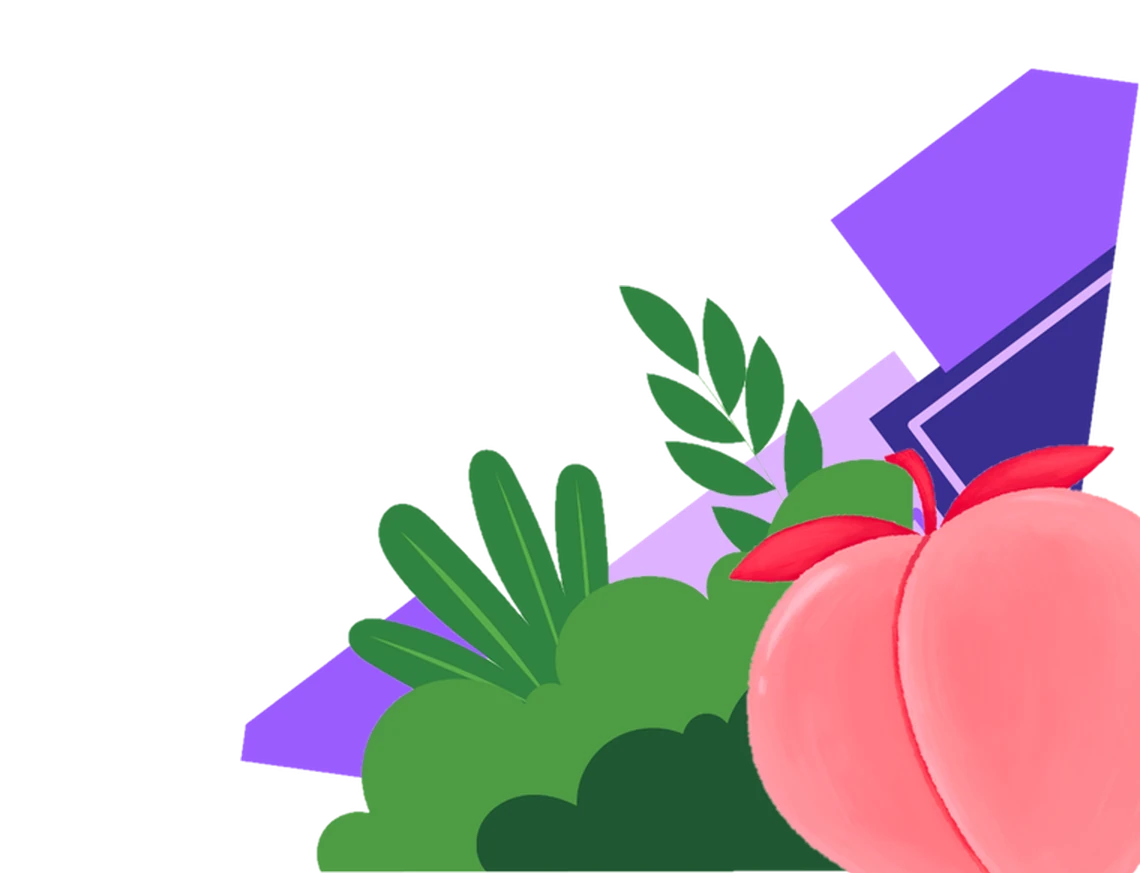
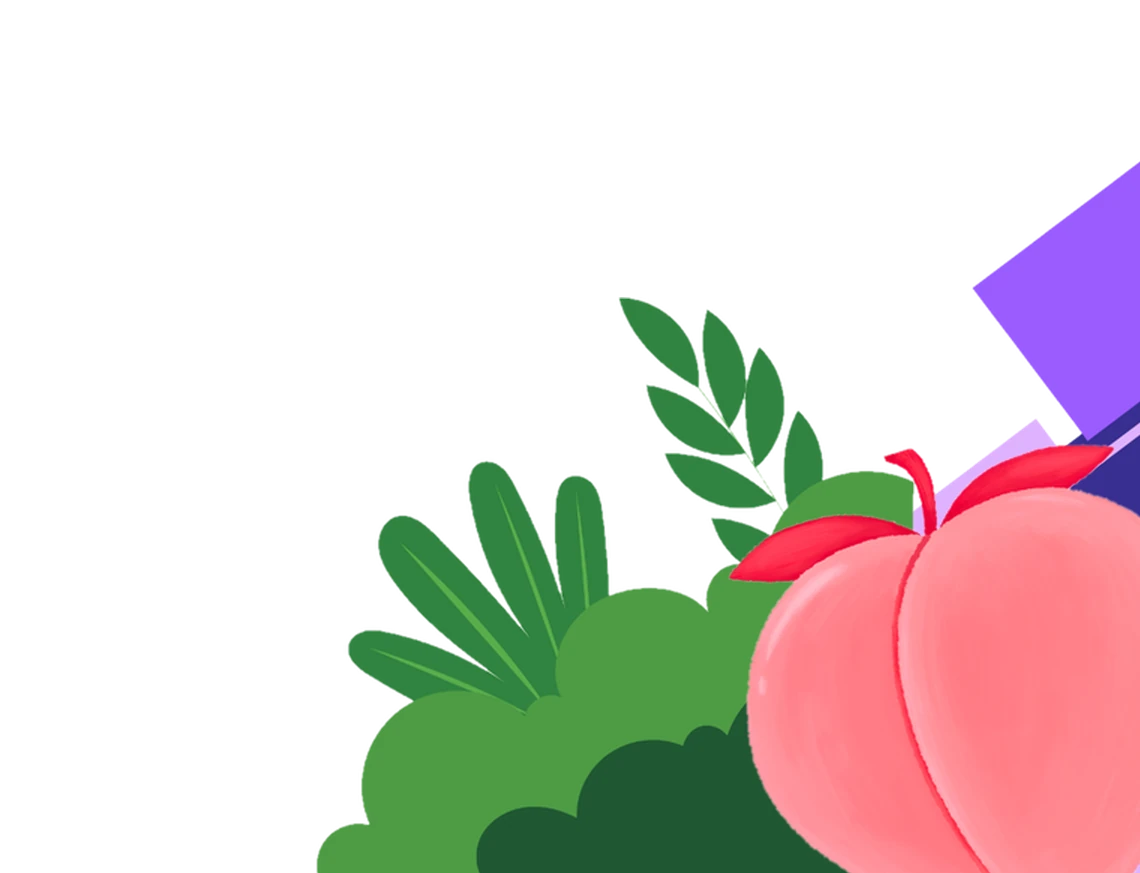
v128

diff --git a/anuario.css b/anuario.css
@@ -408,7 +408,7 @@ body:not(.anuario-mode) #anuarioBg2{display:none;}
 .cv-main{display:contents;}
 .cv25{display:none;}
 #anuScene{position:fixed;inset:0;z-index:-1;pointer-events:none;overflow:hidden;background:var(--paper,#f0dcda);opacity:0;visibility:hidden;transition:opacity .6s ease,visibility 0s .6s;--bn:12px;}
-.sc-in{position:absolute;left:0;right:0;top:var(--hh,64px);bottom:var(--bn);
+.sc-in{position:absolute;left:0;right:0;top:var(--hh,64px);bottom:0;
   --k:1; --s:min(calc(100vw / 1456 * var(--k)),calc((100vh - var(--hh,64px) - var(--bn)) / 819));}
 @supports (height:100dvh){.sc-in{--s:min(calc(100vw / 1456 * var(--k)),calc((100dvh - var(--hh,64px) - var(--bn)) / 819));}}
 @media (orientation:portrait){.sc-in{--k:1.3;}}

diff --git a/anuario.js b/anuario.js
@@ -519,7 +519,7 @@ function anuMes_(t){
 function anuCapas_(t,w){
   const c=t&&t.capas, box=$a("cv25"), sc=$a("anuScene"); if(!box) return;
   w.classList.toggle("c25",!!c);
-  if(!c){ box.innerHTML=""; if(sc) sc.classList.remove("on"); return; }
+  if(!c){ box.innerHTML=""; delete box.dataset.k; if(sc) sc.classList.remove("on"); return; }
   const B=t._b+(c.carpeta||"capas/"), M=c.piezas||{}, E=c.esquinas||{};
   if(!box.dataset.k||box.dataset.k!==B){ box.dataset.k=B;
     box.innerHTML=(c.orden||[]).map((n,i)=>{ const m=M[n]; if(!m) return ""; return `<img class="l25 l-${n}" src="${B}${n}.webp" alt="" draggable="false" style="--l:${m.l}%;--t:${m.t}%;--w:${m.w}%;--d:${(i*0.11).toFixed(2)}s">`; }).join(""); }

diff --git a/sw.js b/sw.js
@@ -4,7 +4,7 @@
  * - Las llamadas al servidor (Apps Script, Google login, GitHub API) NUNCA pasan por acá: los datos
  *   se guardan desde index.html (localStorage + IndexedDB), no desde el service worker.
  * Para forzar que todos reciban una versión nueva, sube el número de VERSION. */
-const VERSION = "v2.119"; // súbelo en CADA despliegue: es lo que dispara la ventana de «Actualizar ahora»
+const VERSION = "v2.120"; // súbelo en CADA despliegue: es lo que dispara la ventana de «Actualizar ahora»
 const SHELL_CACHE = "tph-shell-" + VERSION;
 const ASSET_CACHE = "tph-assets-v1";      // no se borra al cambiar VERSION (fotos/librerías)
 const MAX_ASSETS = 400;
